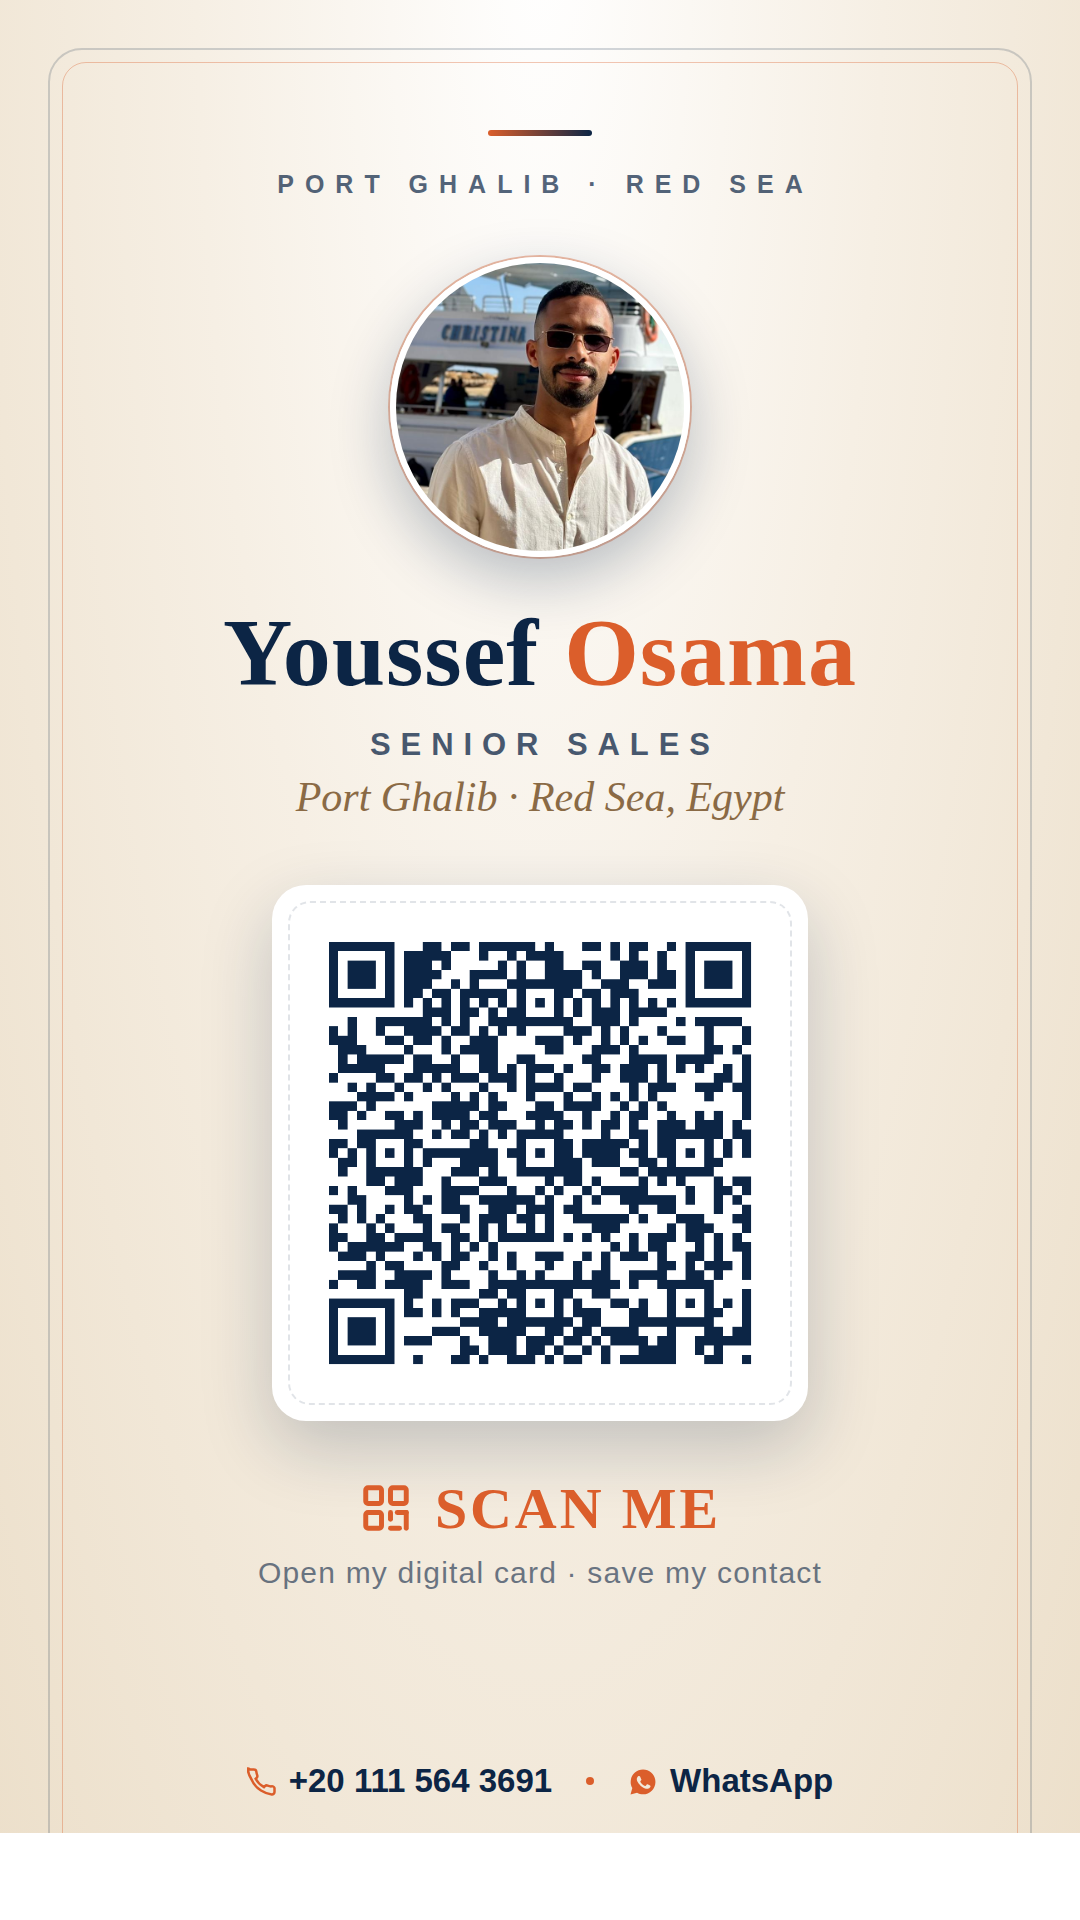
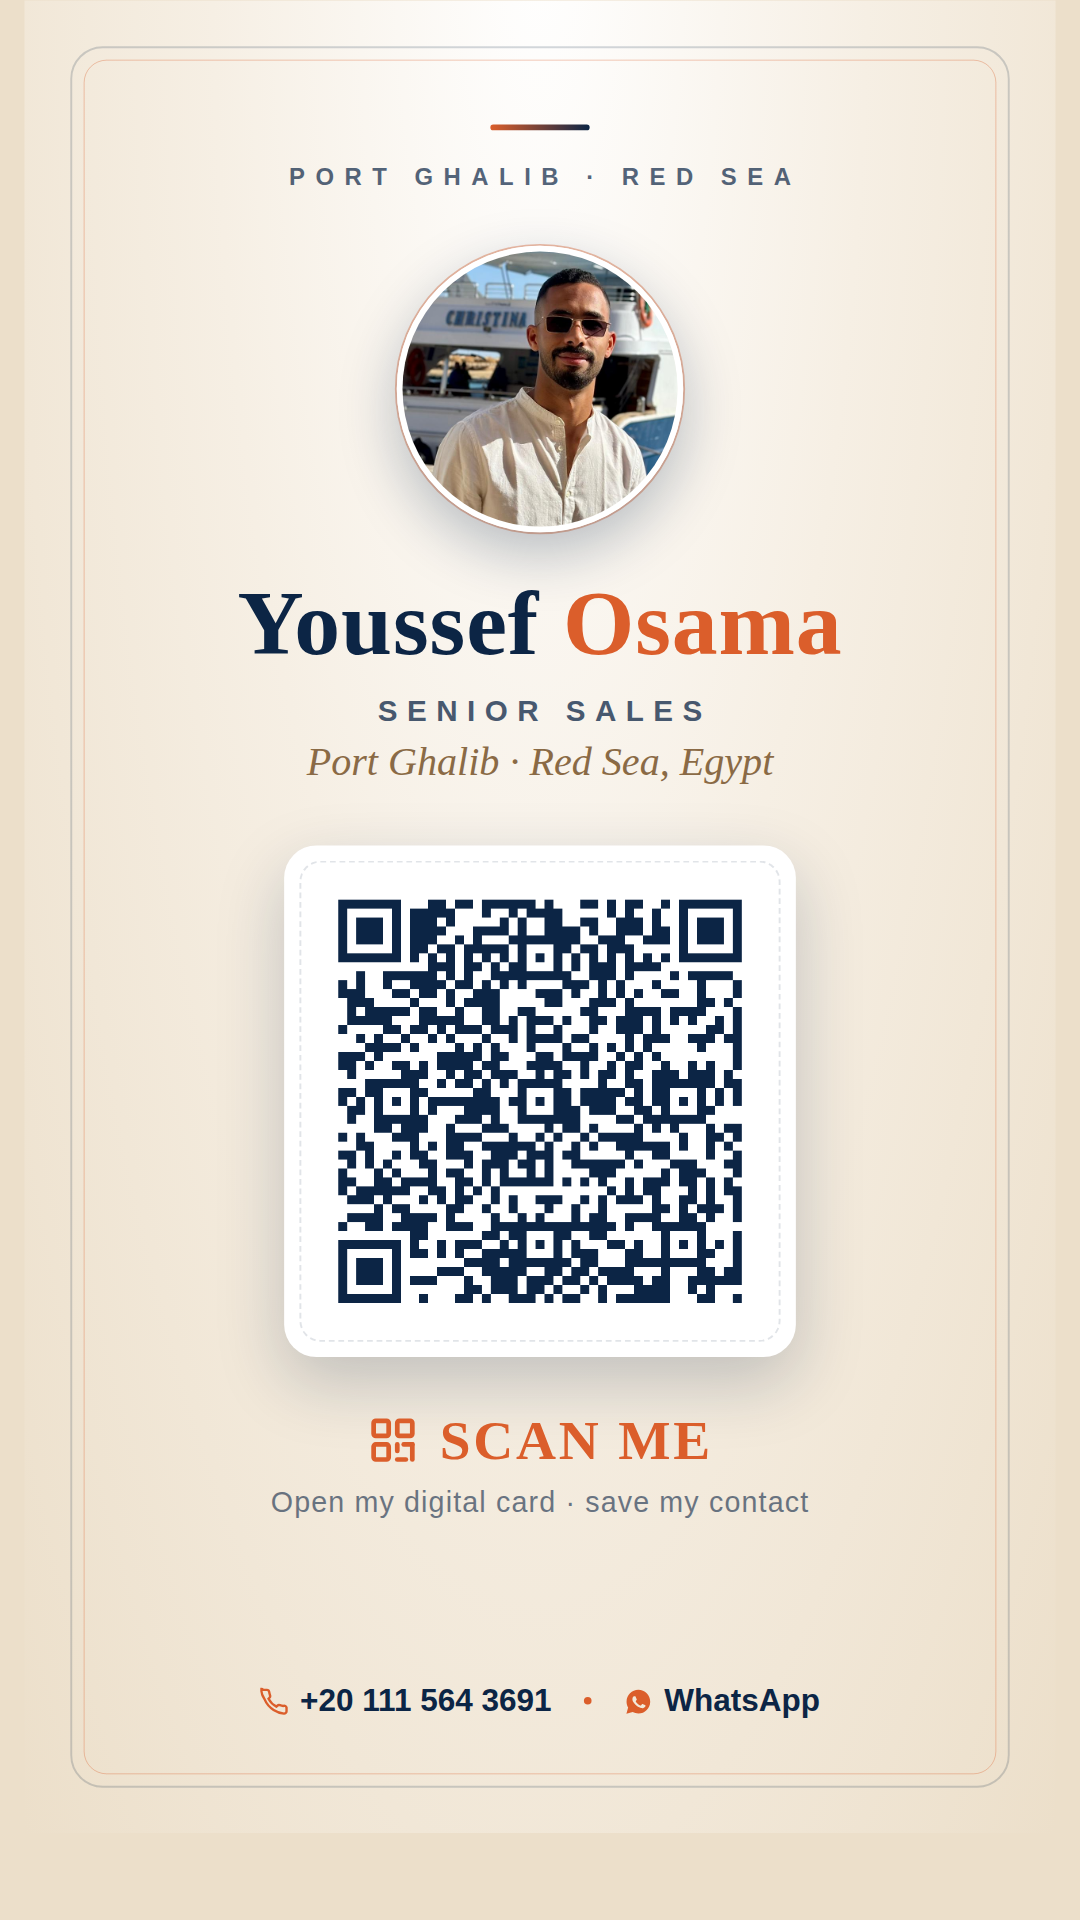
Make QR poster page auto-fit the phone screen (#7)
Scale the fixed 1080x1920 poster with JS so the whole page is always
visible on any phone (no overflow/scroll). PNG export unchanged at full res.

diff --git a/youssef-poster.html b/youssef-poster.html
@@ -6,9 +6,24 @@
 <style>
   * { box-sizing: border-box; margin: 0; padding: 0; }
 
+  html, body {
+    height: 100%;
+    background: #ecdfca;
+    overflow: hidden;
+  }
+  body {
+    min-height: 100vh;
+    min-height: 100dvh;
+    display: flex;
+    align-items: center;
+    justify-content: center;
+  }
+
   .poster {
     width: 1080px;
     height: 1920px;
+    flex: 0 0 auto;
+    transform-origin: center center;
     position: relative;
     overflow: hidden;
     font-family: 'Inter', sans-serif;
@@ -193,5 +208,22 @@
       <span><svg viewBox="0 0 24 24" fill="currentColor"><path d="M12.04 2c-5.46 0-9.91 4.45-9.91 9.91 0 1.75.46 3.45 1.32 4.95L2 22l5.25-1.38c1.45.79 3.08 1.21 4.79 1.21 5.46 0 9.91-4.45 9.91-9.91S17.5 2 12.04 2m5.8 14.01c-.24.68-1.42 1.31-1.96 1.36-.5.05-.95.24-3.2-.67-2.7-1.09-4.42-3.86-4.55-4.04-.13-.18-1.1-1.46-1.1-2.79 0-1.32.69-1.97.94-2.24.24-.27.53-.34.71-.34.18 0 .35.01.5.01.16.01.38-.06.59.45.24.58.81 2 .88 2.14.07.14.12.31.02.49-.09.18-.14.29-.28.45-.14.16-.29.36-.42.48-.14.13-.28.28-.12.55.16.27.71 1.17 1.53 1.9 1.05.94 1.94 1.23 2.21 1.37.27.14.43.12.59-.07.16-.18.68-.79.86-1.07.18-.27.36-.22.61-.13.24.09 1.55.73 1.81.86.27.13.45.2.51.31.07.11.07.63-.17 1.31"/></svg>WhatsApp</span>
     </div>
   </div>
+
+  <script>
+    // Scale the fixed-size poster so the whole thing always fits the screen
+    (function () {
+      var poster = document.querySelector('.poster');
+      function fit() {
+        var vw = window.innerWidth;
+        var vh = (window.visualViewport && window.visualViewport.height) || window.innerHeight;
+        var scale = Math.min(vw / 1080, vh / 1920);
+        poster.style.transform = 'scale(' + scale + ')';
+      }
+      fit();
+      window.addEventListener('resize', fit);
+      window.addEventListener('orientationchange', fit);
+      if (window.visualViewport) window.visualViewport.addEventListener('resize', fit);
+    })();
+  </script>
 </body>
 </html>
